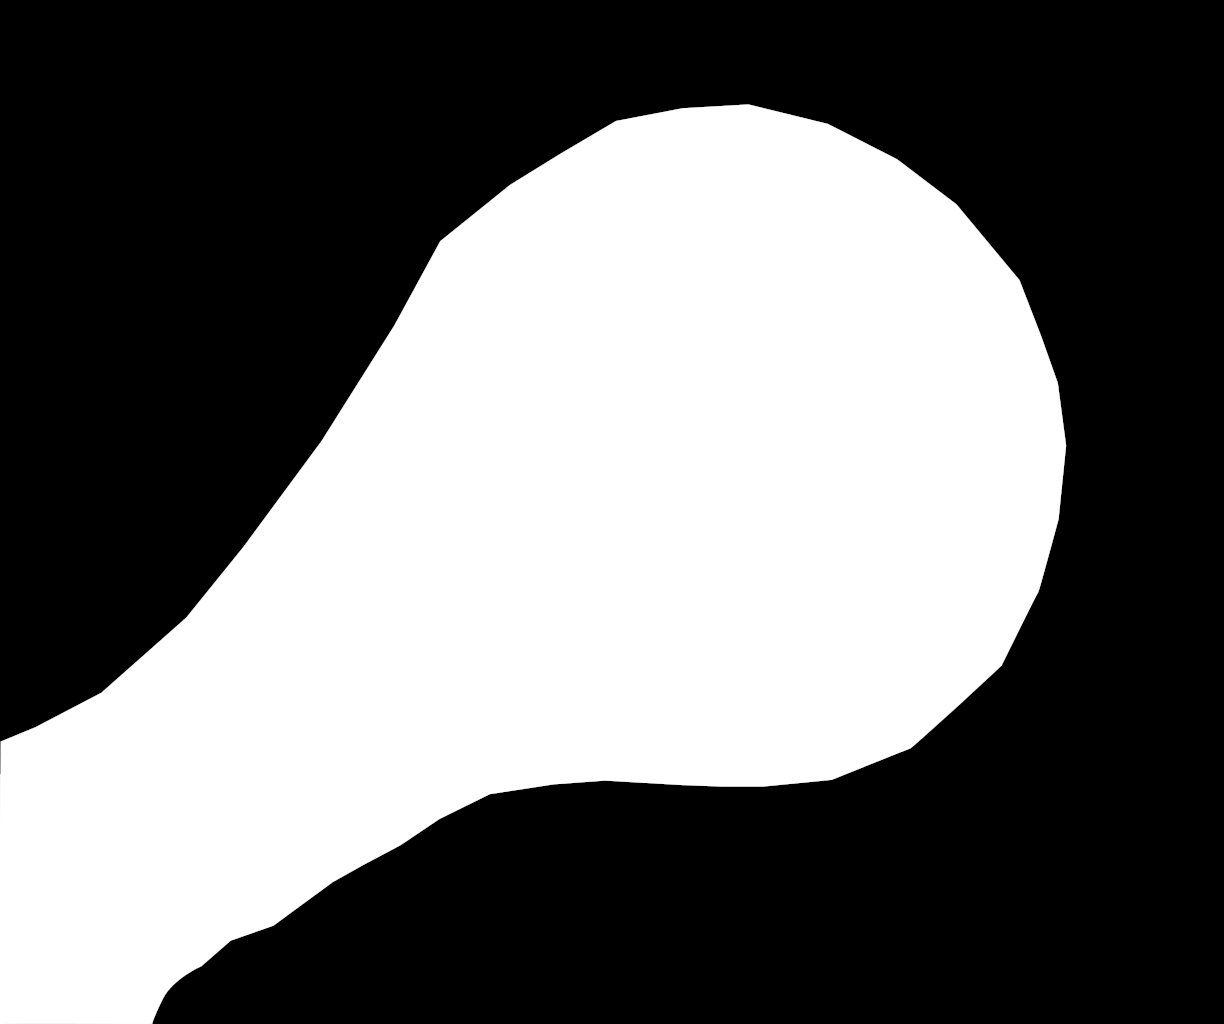
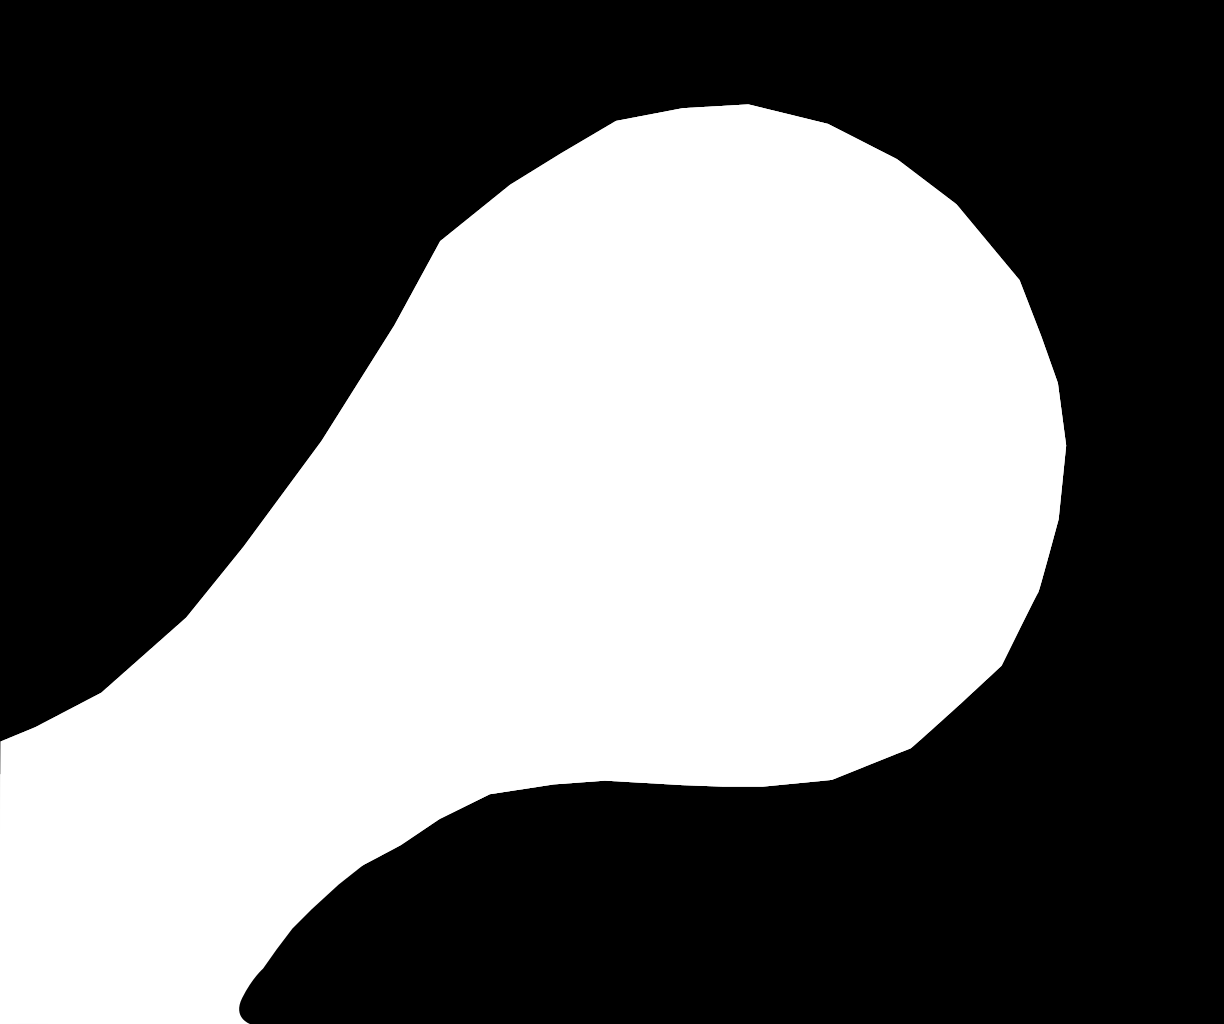
手动mask左下角范围增大

Changed region(s): [[0.1242, 0.8438, 0.2794, 1.0]]

diff --git a/Data_Preprocessing/processed/02_processed.py b/Data_Preprocessing/processed/02_processed.py
@@ -1095,9 +1095,9 @@ def process_cell_growth(
 
 # ---------------------- 脚本执行入口 ----------------------
 if __name__ == "__main__":
-    EXCEL_FILE_PATH = r"F:\Microalgae_Photoes\20260504\数据汇总\02_标准化数据\CH3_标准化.xlsx"
-    RESULT_EXCEL_PATH = r"F:\Microalgae_Photoes\20260504\数据汇总\03_可视化结果\CH3_可视化结果.xlsx"
-    Nitrogen = "160 mg/L"
+    EXCEL_FILE_PATH = r"F:\Microalgae_Photoes\20260504\数据汇总\02_标准化数据\CH6_标准化.xlsx"
+    RESULT_EXCEL_PATH = r"F:\Microalgae_Photoes\20260504\数据汇总\03_可视化结果\CH6_可视化结果.xlsx"
+    Nitrogen = "300 mg/L"
     skip_sheet = {"数据汇总", "👈←25-10-25批次   理论预测17组→👉", "← 👈25-09-26批  理论预测2组👉→"}
     set_valid_num = 97
     result = process_cell_growth(

diff --git a/Data_Preprocessing/processed/100_getfigures.py b/Data_Preprocessing/processed/100_getfigures.py
@@ -3,9 +3,9 @@ import shutil
 
 # ====================== 【请你修改这两个路径！】 ======================
 # 1. CH6文件夹的绝对路径（Windows示例：D:/Data/CH6，Mac/Linux示例：/home/user/Data/CH6）
-SOURCE_ROOT_DIR = r"F:\Microalgae_Photoes\20260504\CH5"
+SOURCE_ROOT_DIR = r"F:\Microalgae_Photoes\ReRun\CH6"
 # 2. 你要存放复制后图片的目标路径（自动创建不存在的文件夹）
-TARGET_SAVE_DIR = r"F:\Microalgae_Photoes\20260504\overlay_05"
+TARGET_SAVE_DIR = r"F:\Microalgae_Photoes\ReRun\overlay_06"
 # =====================================================================
 
 # 固定的图片文件名（无需修改）
